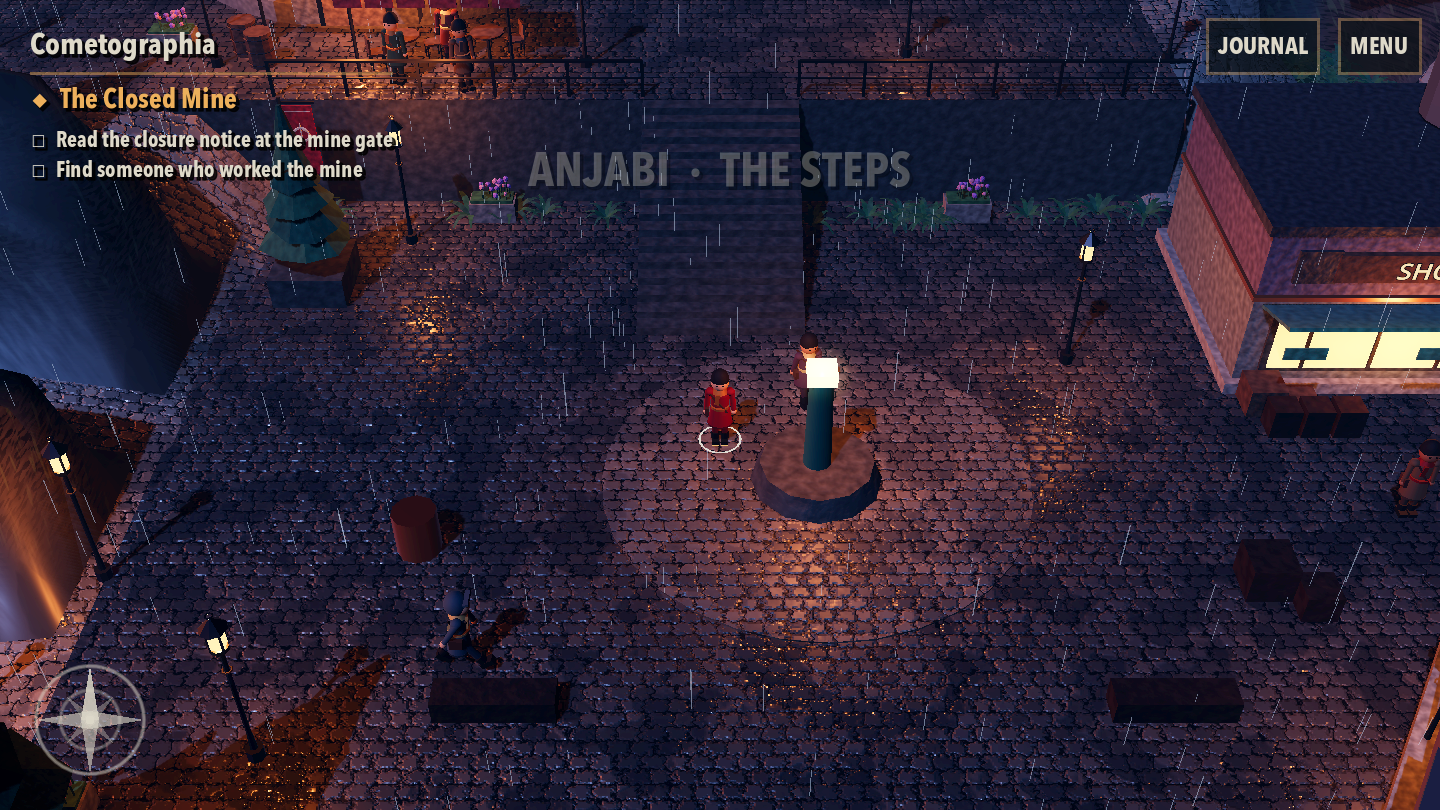
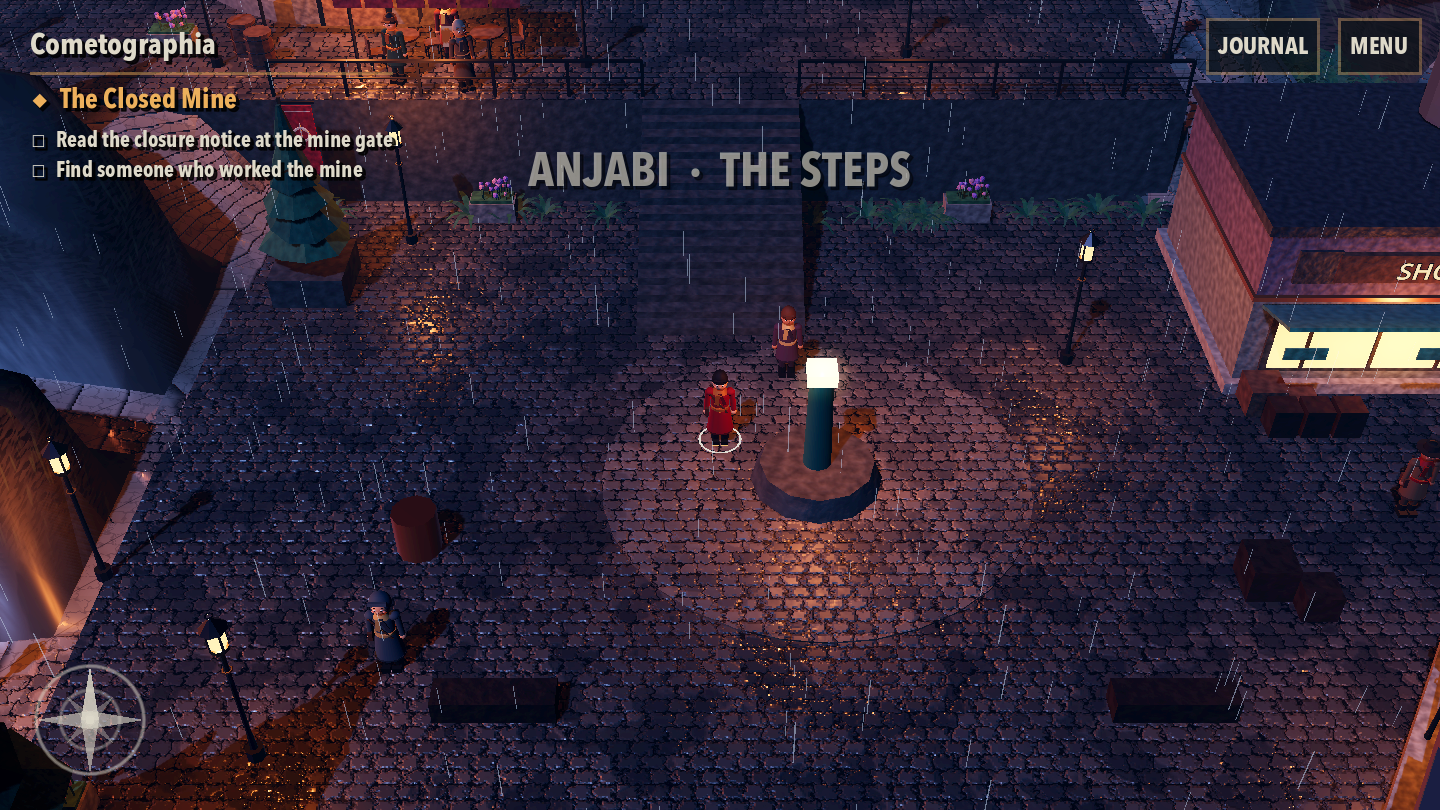
Aesthetic passes 6-7: character faces, hair, hats, coats and variety; stone steps on sloped walkways

diff --git a/PROJECT_LOG.md b/PROJECT_LOG.md
@@ -459,3 +459,21 @@ rails), `gondola` (tram cabin), `pine`, `fern`.
   or Imperial city silhouette on the horizon (camera looks down); no rain splashes or
   dripping eaves. iPhone performance after these passes is not measured.
 
+### Pass 6 — characters
+- `Figure3D`: smaller head (~4.5 heads tall) on a neck; face with eye whites and pupils,
+  brows, nose, mouth and cheek colour; hair styles `short`, `bun`, `long`, `bald` with a
+  fringe; hats `cap`, `hardhat` (with a lit lamp), `brim`; coat lapels and brass buttons;
+  optional `long_coat`, `apron`, `satchel`. Set through `configure(look)`; `Npc3D.look`
+  and `Townsfolk.look` pass it on.
+- Player: dark hair in a bun, long burgundy coat (the key art's look). Driller: hard hat.
+  Tavern keeper: apron. Gate guard: long coat and hood. Two hard-hatted miners stand at
+  the mine portal (key art). Townsfolk vary hair, caps, brimmed hats and coats.
+
+### Pass 7 — stairs
+- `wet_ground.gdshader`: paved walkway slopes steeper than ~8° are drawn as stone steps:
+  level treads at 18 cm risers following the slope's contours, slab joints, dark riser
+  faces, lit nosings; the bump term cancels the ramp slope on each tread so treads read
+  level. Collision stays a smooth ramp (as with the plaza stairs). Puddles are suppressed
+  on steps. New screenshots `3d_28`, `3d_29`.
+- Tests 96/96.
+
